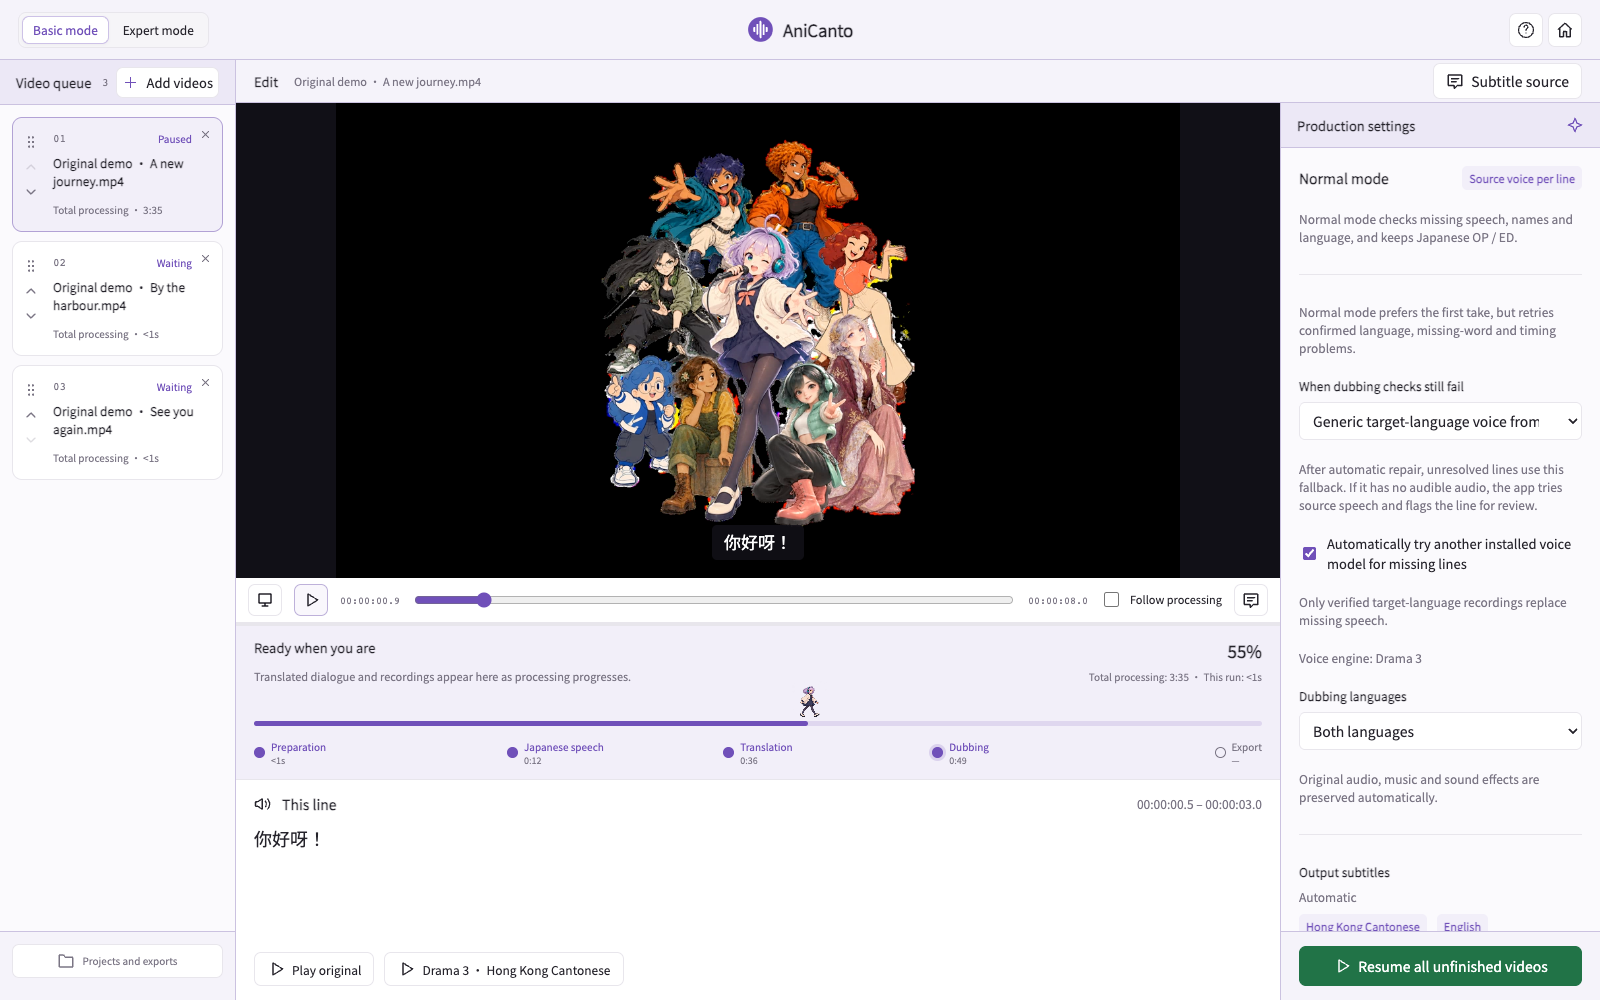
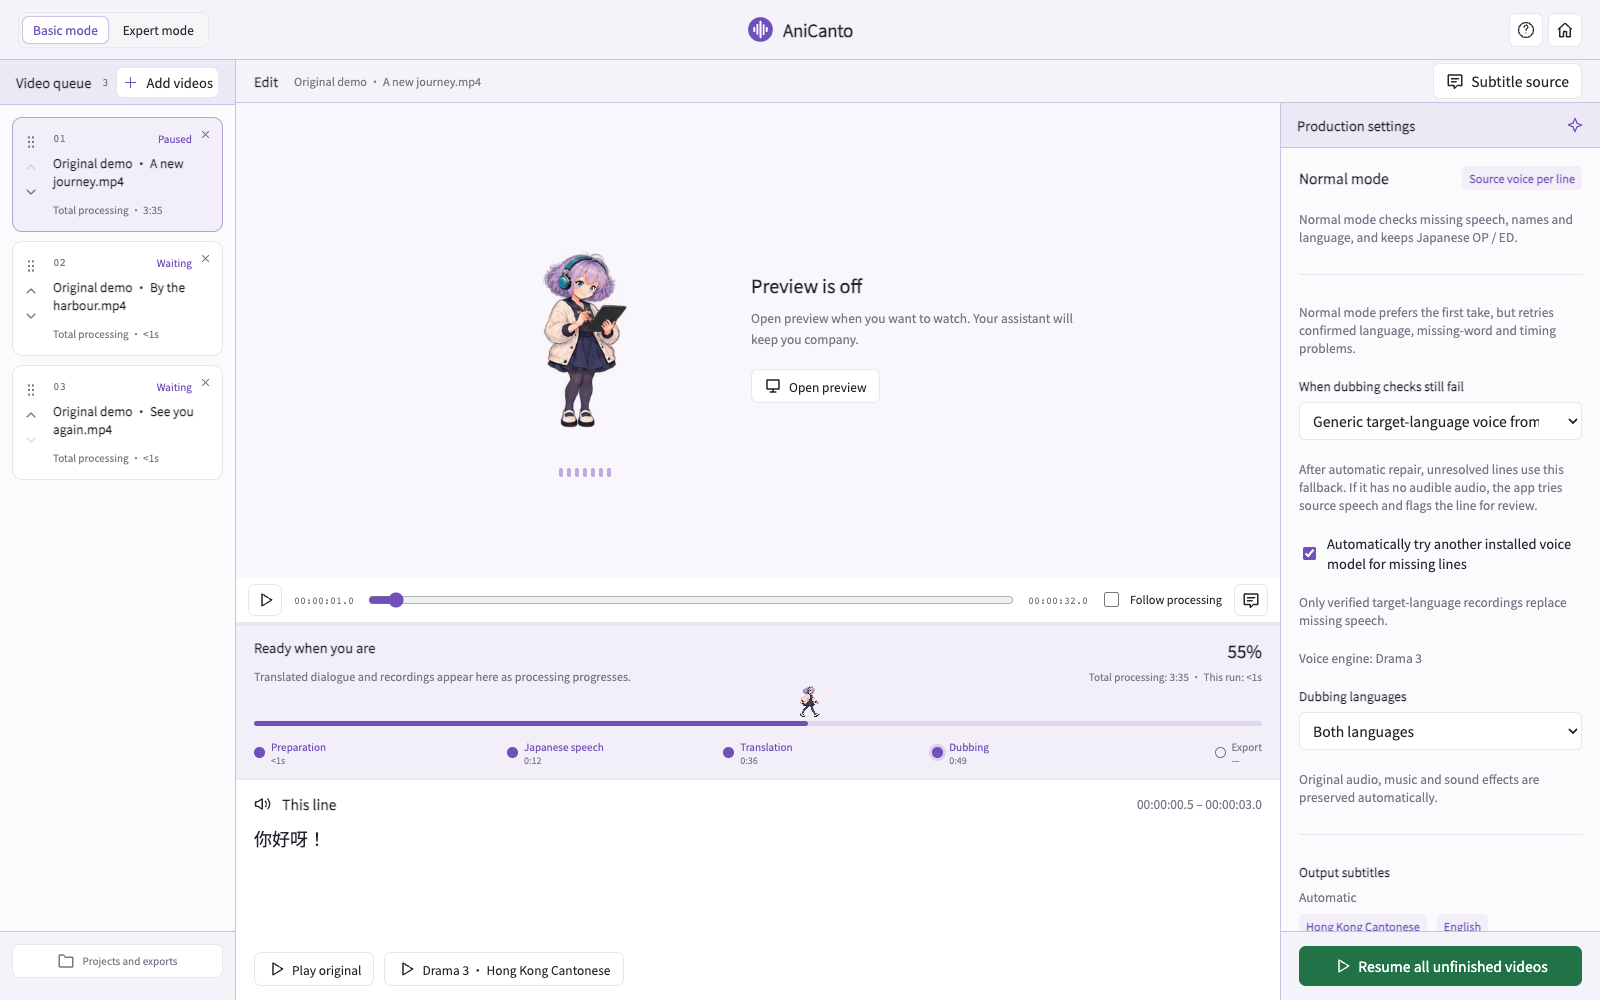
Show preview-off assistant mode in all editing screenshots

diff --git a/README.en.md b/README.en.md
@@ -82,7 +82,7 @@ An accepted extension still needs readable audio and video codecs. Burned-in cap
 
 ## Inside the current app
 
-Real 0.24.59 interface with original demonstration material and illustrative model / project states; these screenshots are not conversion benchmarks.
+Editing screenshots show **video preview switched off, with the animated assistant visible**, in the light-purple theme. Project and model states are illustrative, not conversion benchmarks.
 
 ### Welcome and setup
 
@@ -90,11 +90,11 @@ Real 0.24.59 interface with original demonstration material and illustrative mod
 
 ### Basic mode: progress and audition
 
-![Basic mode: progress and audition](docs/images/basic-en.png)
+![Basic mode: progress and audition](docs/images/basic-en.png?v=preview-off)
 
 ### Expert mode: timeline and line editing
 
-![Expert mode: timeline and line editing](docs/images/timeline-en.png)
+![Expert mode: timeline and line editing](docs/images/timeline-en.png?v=preview-off)
 
 ### Review report: issues and recording comparison
 

diff --git a/README.md b/README.md
@@ -82,7 +82,7 @@ An accepted extension still needs readable audio and video codecs. Burned-in cap
 
 ## Inside the current app
 
-Real 0.24.59 interface with original demonstration material and illustrative model / project states; these screenshots are not conversion benchmarks.
+Editing screenshots show **video preview switched off, with the animated assistant visible**, in the light-purple theme. Project and model states are illustrative, not conversion benchmarks.
 
 ### Welcome and setup
 
@@ -90,11 +90,11 @@ Real 0.24.59 interface with original demonstration material and illustrative mod
 
 ### Basic mode: progress and audition
 
-![Basic mode: progress and audition](docs/images/basic-en.png)
+![Basic mode: progress and audition](docs/images/basic-en.png?v=preview-off)
 
 ### Expert mode: timeline and line editing
 
-![Expert mode: timeline and line editing](docs/images/timeline-en.png)
+![Expert mode: timeline and line editing](docs/images/timeline-en.png?v=preview-off)
 
 ### Review report: issues and recording comparison
 

diff --git a/docs/ja/SCREENSHOTS.md b/docs/ja/SCREENSHOTS.md
@@ -2,7 +2,7 @@
 
 [← AniCanto](../../README.ja.md)
 
-0.24.59 の実際の UI にオリジナルのデモ素材とモデル・プロジェクトの例を表示しています。処理性能の測定結果ではありません。
+0.24.59 の実際の UI です。編集画面は薄紫色のテーマで、**動画プレビューをオフにして、アニメーションするアシスタントを表示**しています。モデルとプロジェクトの状態は表示例であり、処理性能の測定結果ではありません。
 
 ## ようこそ
 
@@ -14,11 +14,11 @@
 
 ## 基本モード
 
-![基本モード](../images/basic-ja.png)
+![基本モード](../images/basic-ja.png?v=preview-off)
 
 ## タイムライン
 
-![タイムライン](../images/timeline-ja.png)
+![タイムライン](../images/timeline-ja.png?v=preview-off)
 
 ## 校正レポート
 
@@ -38,4 +38,4 @@
 
 ## 字幕ソース
 
-![字幕ソース](../images/subtitles-ja.png)
+![字幕ソース](../images/subtitles-ja.png?v=preview-off)

diff --git a/docs/en/SCREENSHOTS.md b/docs/en/SCREENSHOTS.md
@@ -2,7 +2,7 @@
 
 [← AniCanto](../../README.md)
 
-Real 0.24.59 interface with original demonstration material and illustrative model / project states; these screenshots are not conversion benchmarks.
+Editing screenshots show **video preview switched off, with the animated assistant visible**, in the light-purple theme. Project and model states are illustrative, not conversion benchmarks.
 
 ## Welcome
 
@@ -14,11 +14,11 @@ Real 0.24.59 interface with original demonstration material and illustrative mod
 
 ## Basic mode
 
-![Basic mode](../images/basic-en.png)
+![Basic mode](../images/basic-en.png?v=preview-off)
 
 ## Expert timeline
 
-![Expert timeline](../images/timeline-en.png)
+![Expert timeline](../images/timeline-en.png?v=preview-off)
 
 ## Review report
 
@@ -38,4 +38,4 @@ Real 0.24.59 interface with original demonstration material and illustrative mod
 
 ## Subtitle source
 
-![Subtitle source](../images/subtitles-en.png)
+![Subtitle source](../images/subtitles-en.png?v=preview-off)

diff --git a/docs/zh-CN/SCREENSHOTS.md b/docs/zh-CN/SCREENSHOTS.md
@@ -2,7 +2,7 @@
 
 [← AniCanto](../../README.zh-CN.md)
 
-以下为 0.24.59 真实界面，使用原创演示素材和示意模型／项目状态，不代表转换性能测试。
+以下为 0.24.59 真实界面。剪辑画面统一使用浅紫色主题，**关闭视频预览，显示动画小助手**；模型及项目状态仅作演示，不代表转换性能测试。
 
 ## 欢迎画面
 
@@ -14,11 +14,11 @@
 
 ## 基本模式
 
-![基本模式](../images/basic-zh-CN.png)
+![基本模式](../images/basic-zh-CN.png?v=preview-off)
 
 ## 专家时间轴
 
-![专家时间轴](../images/timeline-zh-CN.png)
+![专家时间轴](../images/timeline-zh-CN.png?v=preview-off)
 
 ## 校对报告
 
@@ -38,4 +38,4 @@
 
 ## 字幕来源
 
-![字幕来源](../images/subtitles-zh-CN.png)
+![字幕来源](../images/subtitles-zh-CN.png?v=preview-off)

diff --git a/docs/zh-HK/SCREENSHOTS.md b/docs/zh-HK/SCREENSHOTS.md
@@ -2,7 +2,7 @@
 
 [← AniCanto](../../README.zh-HK.md)
 
-以下係 0.24.59 真實介面，使用原創示範素材及示意模型／專案狀態，唔係轉換效能測試。
+以下係 0.24.59 真實介面。剪輯畫面統一用淺紫色主題，**關閉影片預覽，顯示動畫小助手**；模型及專案狀態只作示範，唔係轉換效能測試。
 
 ## 歡迎畫面
 
@@ -14,11 +14,11 @@
 
 ## 基本模式
 
-![基本模式](../images/basic-zh-HK.png)
+![基本模式](../images/basic-zh-HK.png?v=preview-off)
 
 ## 專家時間軸
 
-![專家時間軸](../images/timeline-zh-HK.png)
+![專家時間軸](../images/timeline-zh-HK.png?v=preview-off)
 
 ## 校對報告
 
@@ -38,4 +38,4 @@
 
 ## 字幕來源
 
-![字幕來源](../images/subtitles-zh-HK.png)
+![字幕來源](../images/subtitles-zh-HK.png?v=preview-off)

diff --git a/docs/ja/GETTING-STARTED.md b/docs/ja/GETTING-STARTED.md
@@ -8,4 +8,4 @@
 
 字幕は選択中の動画に関連付けられます。自動選択では外部字幕、内蔵テキスト字幕、画面 OCR の順に確認します。エキスパートモードでは音声のみも選べます。実行中・一時停止中の処理は保存済みの字幕ソースを保持します。変更は新しい変換に適用してください。関連付けを外しても字幕ファイルは削除されません。画像字幕をテキストとして読めるとは限りません。UI の言語を変えても吹き替え言語は増えません。
 
-![字幕ソース](../images/subtitles-ja.png)
+![字幕ソース](../images/subtitles-ja.png?v=preview-off)

diff --git a/docs/en/GETTING-STARTED.md b/docs/en/GETTING-STARTED.md
@@ -8,4 +8,4 @@
 
 Subtitle import attaches to the selected video. Automatic selection checks a matching external file, then embedded text tracks, then screen OCR. You can choose audio-only in Expert mode. A running or paused job retains its saved subtitle source; change it for a new conversion. Removing the association leaves the original subtitle file intact. Image subtitles are not guaranteed to work as text tracks. Interface language does not add another dubbing language.
 
-![Subtitle source](../images/subtitles-en.png)
+![Subtitle source](../images/subtitles-en.png?v=preview-off)

diff --git a/docs/zh-HK/GETTING-STARTED.md b/docs/zh-HK/GETTING-STARTED.md
@@ -8,4 +8,4 @@
 
 字幕匯入只套用到所選影片。自動選擇先搵配對外掛檔，再讀內置文字字幕，最後嘗試畫面 OCR。專家模式亦可揀只用聲音。處理中或已暫停嘅工作會沿用已保存嘅字幕來源；要改來源請用新轉換。解除配對唔會刪除原字幕檔。圖片字幕唔保證可以當文字軌讀取。介面語言唔代表新增配音語言。
 
-![字幕來源](../images/subtitles-zh-HK.png)
+![字幕來源](../images/subtitles-zh-HK.png?v=preview-off)
